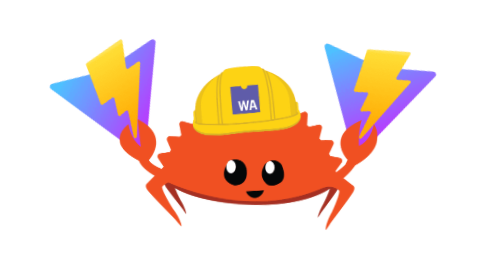
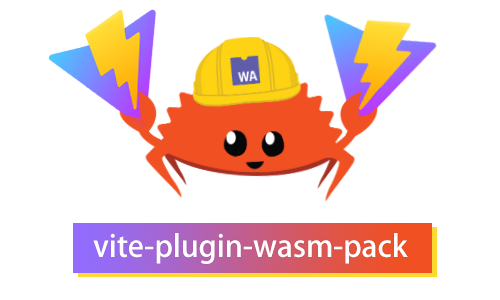
update readme

diff --git a/README.md b/README.md
@@ -1,11 +1,20 @@
-# 🦀 vite-plugin-wasm-pack
+<p align="center">
+  <img width="404" src="./banner.png" alt="vite + wasm pic"/>
+</p>
 
+<h1 align="center">
+  
+🦀 Vite plugin for rust [wasm-pack](https://github.com/rustwasm/wasm-pack), it's simple.
+  
+</h1>
+
+<h4 align="center">
+  
 [![npm](https://img.shields.io/npm/v/vite-plugin-wasm-pack.svg)](https://www.npmjs.com/package/vite-plugin-wasm-pack)
 [![npm](https://img.shields.io/npm/dt/vite-plugin-wasm-pack)](https://www.npmjs.com/package/vite-plugin-wasm-pack)
-
-🦀 Vite plugin for rust [wasm-pack](https://github.com/rustwasm/wasm-pack), it's simple.
-
-<p align="center"><img width="404" src="./banner.png" alt="vite + wasm pic"></a></p>
+[![npm](https://img.shields.io/github/license/nshen/vite-plugin-wasm-pack)](https://www.npmjs.com/package/vite-plugin-wasm-pack)
+  
+</h4>
 
 ## Quick start
 
